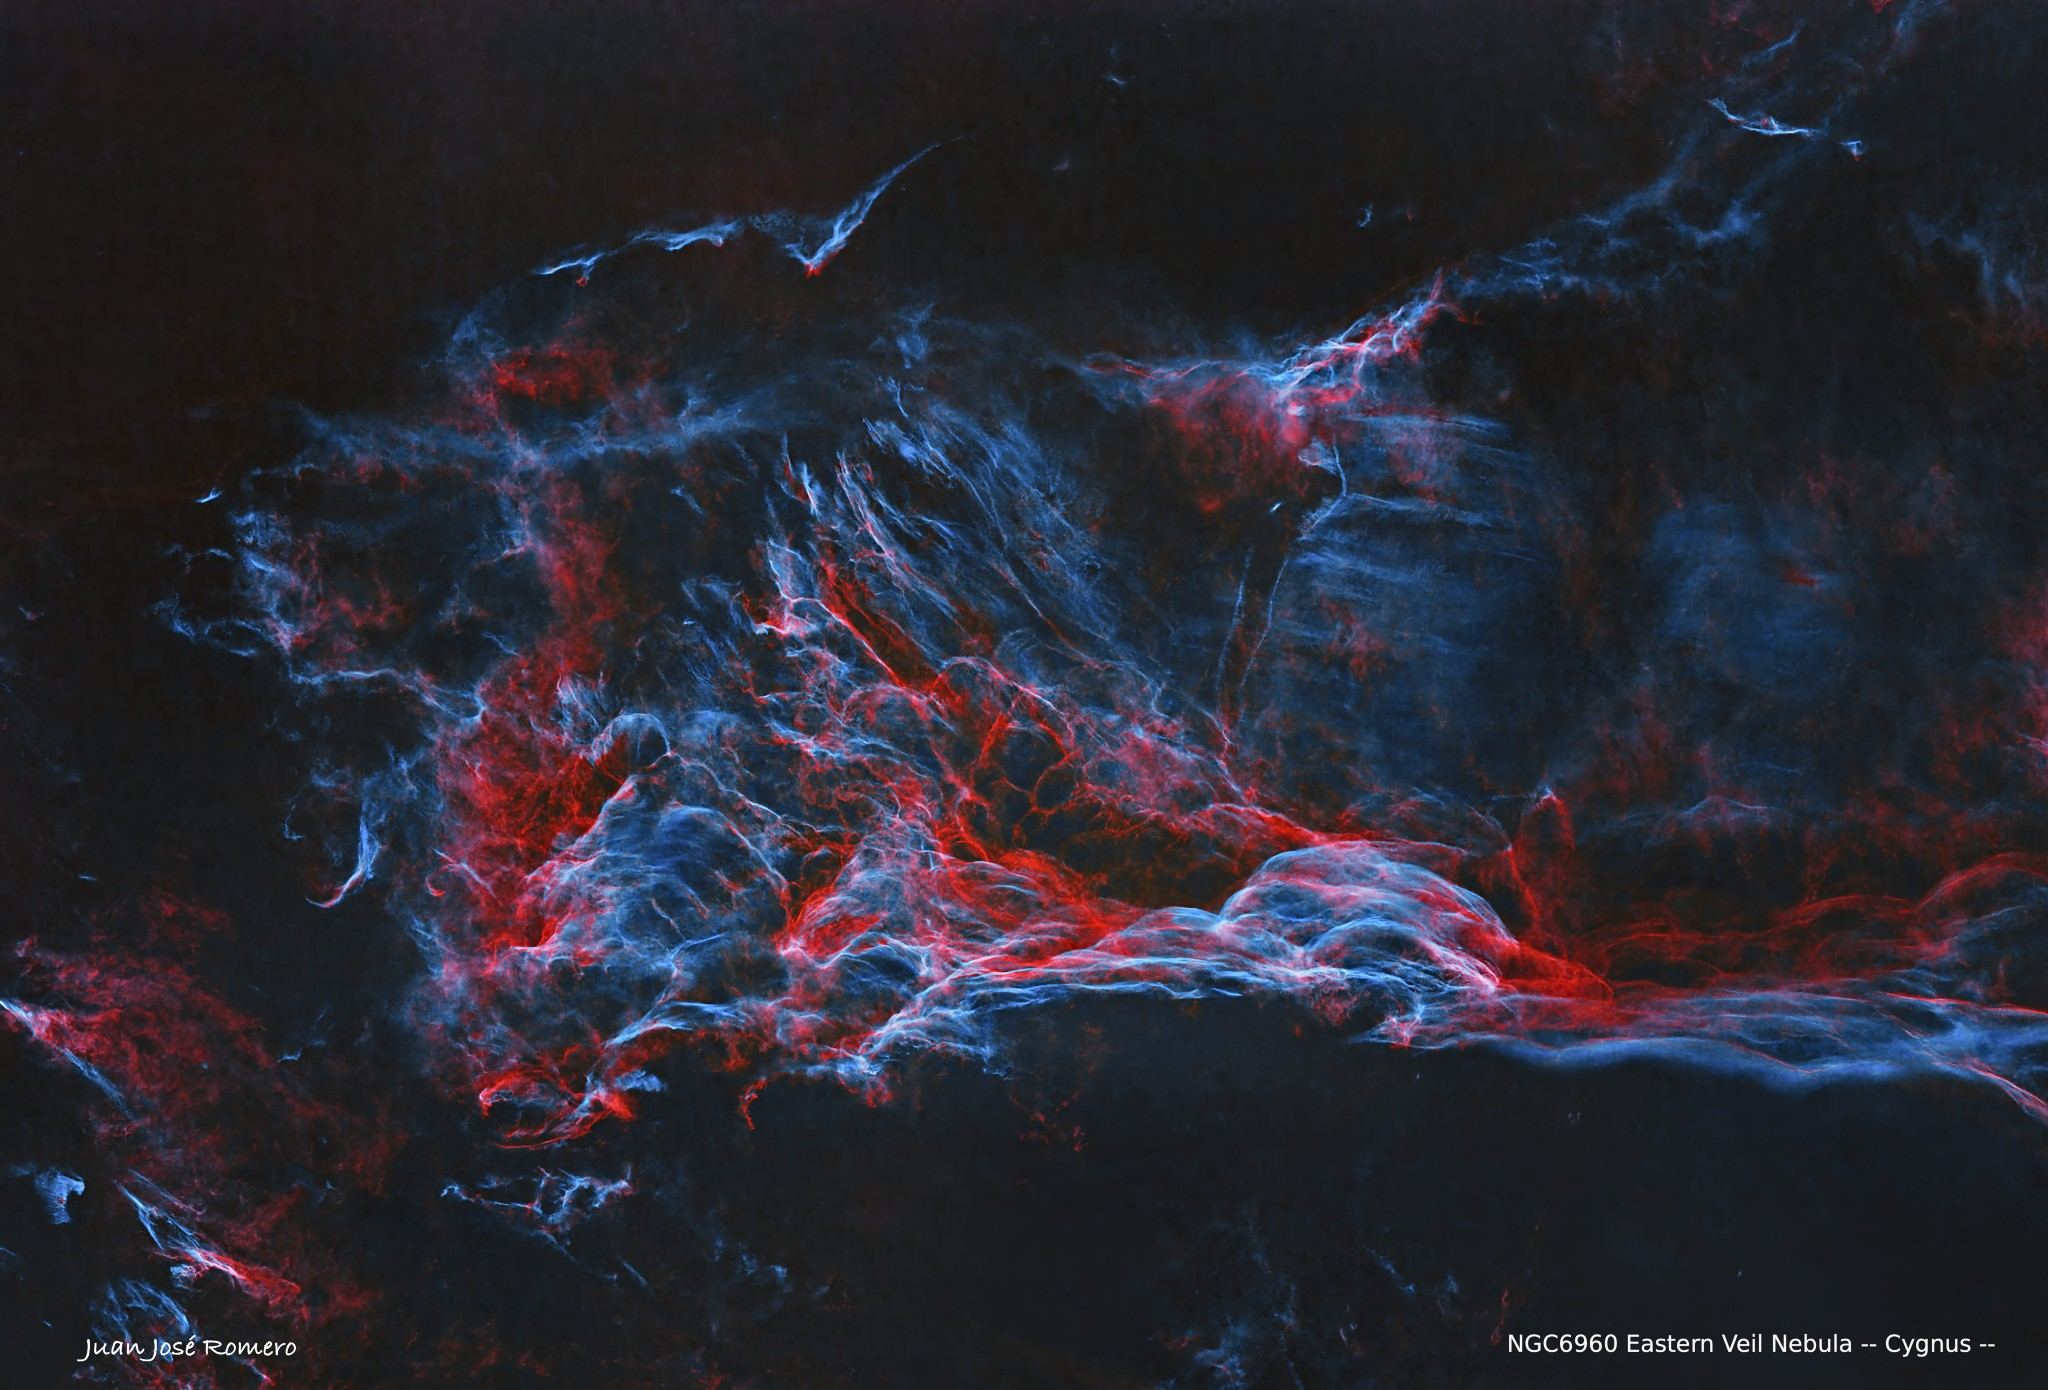
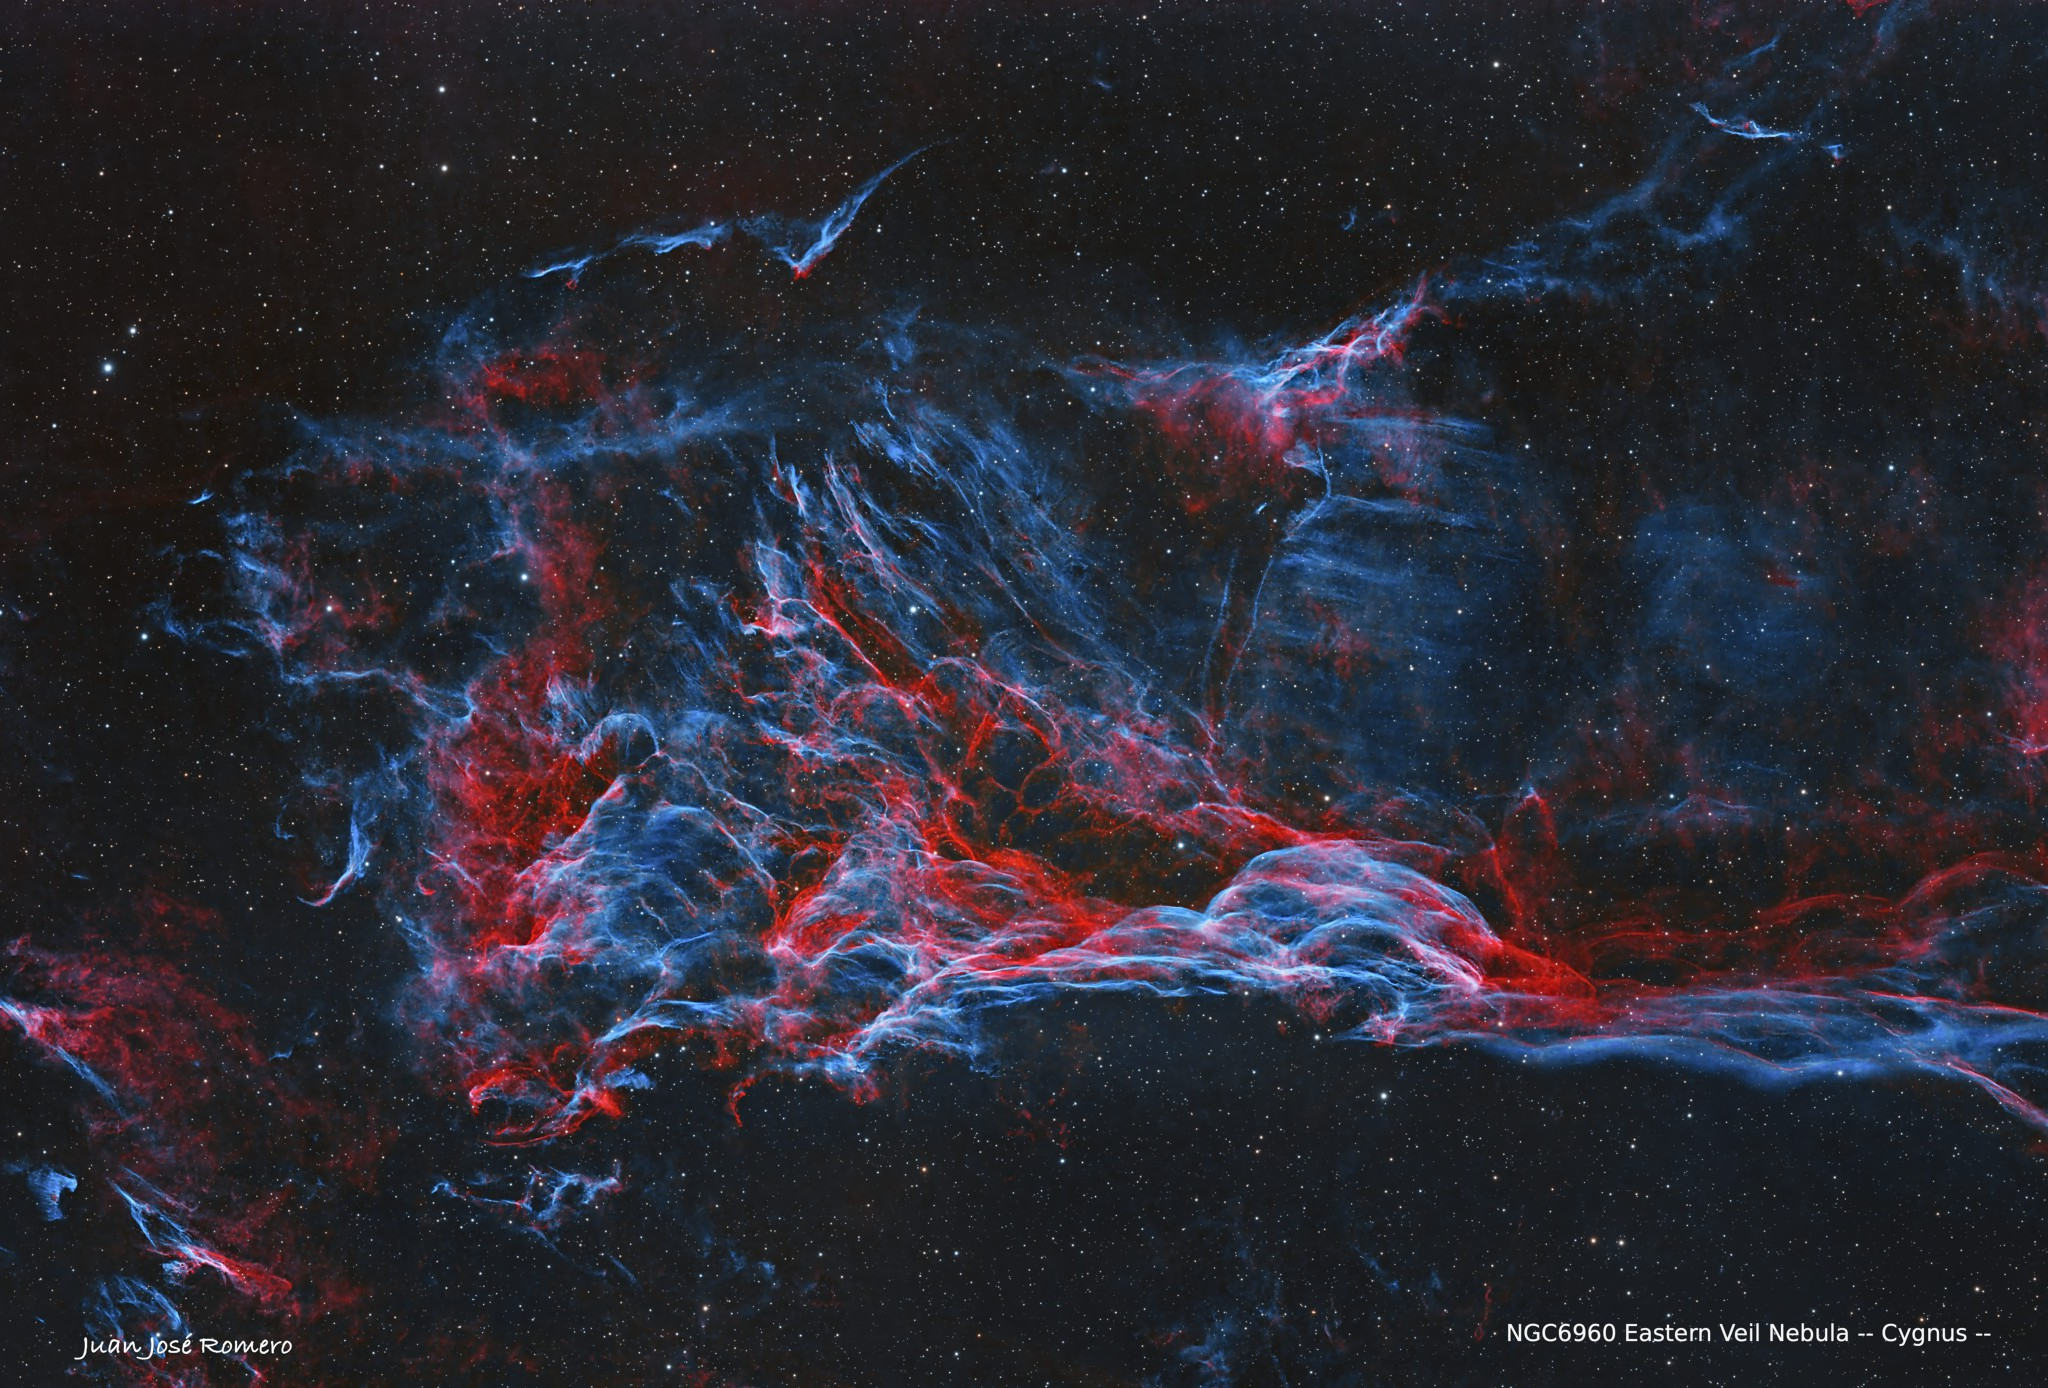
Amplía la galería con NGC6883, WR134 y NGC4565

diff --git a/src/content/fotos/NGC6883(SHO).md b/src/content/fotos/NGC6883(SHO).md
@@ -1,0 +1,44 @@
+---
+objecte: "NGC6883 – Cúmul obert (SHO)"
+constellacio: "Cygnus"
+caracteristiques: "Al centre de la imatge es troba NGC6883, un cúmul estel·lar obert jove situat a la constel·lació de Cygnus. Presenta una mida angular aparent d'uns 35 minuts d'arc, una magnitud visual de +8,0 i es troba a una distància aproximada de 4.500 anys llum. Conté prop d'un centenar d'estrelles, moltes de les quals són estrelles calentes de tipus espectral B. El camp fotografiat també mostra l'extensa nebulositat d'emissió de la regió i la característica bombolla associada a l'estrella Wolf-Rayet WR134, representades en una composició de banda estreta amb paleta SHO."
+categoria: "Cúmuls i Estrelles"
+imatge: "NGC6883_SHO.jpg"
+
+equip:
+  ota: "TS102 f/5.6"
+  roda_filtres: "ZWO EFW 7pos"
+  enfocador: "ZWO EAF"
+  guiat: "PHD2, tub 60mm/f4 + ASI220MM + PegasusAstro UCH + PPBMicro"
+  muntura: "Sky Watcher Wave 150i"
+
+camera:
+  principal: "ASI294MM a -10ºC"
+  filtres: "Ha, OIII i SII Astronomik de 6nm"
+
+exposicio:
+  temps_total: "8h 25min"
+  gain: "125"
+  offset: "30"
+  subframes: "360s (Ha: 10x, OIII: 5x, SII: 5x) bin1; 300s (Ha: 18x, OIII: 44x, SII: 15x) bin1"
+  calibratge: "30 flats, 30 darkflats i 40 darks (de biblioteca), sense bies"
+
+tractament:
+  adquisicio: "NINA"
+  processat: "Apilat i postprocessat amb PixInsight 1.9.3"
+
+entorn:
+  lloc: "l'Ampolla"
+  data: "2025-08-15"
+  bortle: "4"
+
+imatges_addicionals:
+  - tipus: "annotated"
+    fitxer: "NGC6883_SHO_annotated.jpg"
+    titol: "Objectes identificats"
+    descripcio: "Identificació de NGC6883, la nebulosa fosca B147 i LDN 853 dins del camp fotografiat en paleta SHO."
+  - tipus: "process"
+    fitxer: "NGC6883_SHO_process.jpg"
+    titol: "Flux de postprocessament"
+    descripcio: "Flux de treball del postprocessament de la composició SHO de NGC6883 i WR134 amb PixInsight."
+---

diff --git a/src/content/fotos/WR134(HOO).md b/src/content/fotos/WR134(HOO).md
@@ -1,0 +1,44 @@
+---
+objecte: "WR134 – Estrella Wolf-Rayet (HOO)"
+constellacio: "Cygnus"
+caracteristiques: "WR134 és una estrella Wolf-Rayet de tipus espectral WN6 situada a la constel·lació de Cygnus. És una estrella molt calenta, rica en nitrogen i heli i gairebé desproveïda d'hidrogen, que es troba en una etapa avançada de la seva evolució. Expulsa les capes externes mitjançant un vent estel·lar extremadament ràpid i dens, que modela una bombolla de gas ionitzat al seu voltant. La intensa radiació ultraviolada de l'estrella excita aquest gas, i l'emissió de l'oxigen doblement ionitzat de la bombolla es registra amb el filtre OIII. Previsiblement, WR134 acabarà la seva evolució amb una explosió de supernova."
+categoria: "Cúmuls i Estrelles"
+imatge: "WR134.jpg"
+
+equip:
+  ota: "TS102 f/5.6"
+  roda_filtres: "ZWO EFW 7pos"
+  enfocador: "ZWO EAF"
+  guiat: "PHD2, tub 60mm/f4 + ASI220MM + PegasusAstro UCH + PPBMicro"
+  muntura: "Sky Watcher Wave 150i"
+
+camera:
+  principal: "ASI294MM a -10ºC"
+  filtres: "Ha i OIII Astronomik de 6nm"
+
+exposicio:
+  temps_total: "6h 40min"
+  gain: "125"
+  offset: "30"
+  subframes: "360s (Ha: 10x, OIII: 5x) bin1; 300s (Ha: 18x, OIII: 44x) bin1"
+  calibratge: "30 flats, 30 darkflats i 40 darks (de biblioteca), sense bies"
+
+tractament:
+  adquisicio: "NINA"
+  processat: "Apilat i postprocessat amb PixInsight 1.9.3"
+
+entorn:
+  lloc: "l'Ampolla"
+  data: "2025-08-15"
+  bortle: "4"
+
+imatges_addicionals:
+  - tipus: "annotated"
+    fitxer: "WR134_annotated.jpg"
+    titol: "Objectes identificats"
+    descripcio: "Localització de WR134 dins de la seva bombolla de gas ionitzat i identificació del cúmul obert NGC6883 al camp fotografiat."
+  - tipus: "process"
+    fitxer: "WR134_process.jpg"
+    titol: "Flux de postprocessament"
+    descripcio: "Flux de treball del postprocessament de la composició HOO de WR134 amb PixInsight."
+---

diff --git a/src/content/fotos/ngc6883(HOO).md b/src/content/fotos/ngc6883(HOO).md
@@ -1,0 +1,44 @@
+---
+objecte: "NGC6883 – Cúmul obert"
+constellacio: "Cygnus"
+caracteristiques: "Al centre de la imatge es troba NGC6883, un cúmul estel·lar obert jove situat a la constel·lació de Cygnus. Presenta una mida angular aparent d'uns 35 minuts d'arc, una magnitud visual de +8,0 i es troba a una distància aproximada de 4.500 anys llum. Conté prop d'un centenar d'estrelles, moltes de les quals són estrelles calentes de tipus espectral B. El camp fotografiat també mostra l'extensa nebulositat d'emissió de la regió i la característica bombolla associada a l'estrella Wolf-Rayet WR134."
+categoria: "Cúmuls i Estrelles"
+imatge: "NGC6883.jpg"
+
+equip:
+  ota: "TS102 f/5.6"
+  roda_filtres: "ZWO EFW 7pos"
+  enfocador: "ZWO EAF"
+  guiat: "PHD2, tub 60mm/f4 + ASI220MM + PegasusAstro UCH + PPBMicro"
+  muntura: "Sky Watcher Wave 150i"
+
+camera:
+  principal: "ASI294MM a -10ºC"
+  filtres: "Ha i OIII Astronomik de 6nm"
+
+exposicio:
+  temps_total: "6h 40min"
+  gain: "125"
+  offset: "30"
+  subframes: "360s (Ha: 10x, OIII: 5x) bin1; 300s (Ha: 18x, OIII: 44x) bin1"
+  calibratge: "30 flats, 30 darkflats i 40 darks (de biblioteca), sense bies"
+
+tractament:
+  adquisicio: "NINA"
+  processat: "Apilat i postprocessat amb PixInsight 1.9.3"
+
+entorn:
+  lloc: "l'Ampolla"
+  data: "2025-08-15"
+  bortle: "4"
+
+imatges_addicionals:
+  - tipus: "annotated"
+    fitxer: "NGC6883_annotated.jpg"
+    titol: "Objectes identificats"
+    descripcio: "Identificació de NGC6883, l'estrella Wolf-Rayet WR134, la nebulosa fosca B147 i LDN 853 dins del camp fotografiat."
+  - tipus: "process"
+    fitxer: "NGC6883_HOO_process.jpg"
+    titol: "Flux de postprocessament"
+    descripcio: "Flux de treball del postprocessament de la composició HOO de NGC6883 i WR134 amb PixInsight."
+---

diff --git a/src/content/fotos/ngc4565.md b/src/content/fotos/ngc4565.md
@@ -1,0 +1,40 @@
+---
+objecte: "NGC4565 – Galàxia de l'Agulla"
+constellacio: "Coma Berenices"
+caracteristiques: "NGC4565, situada a la constel·lació de Coma Berenices, és una galàxia espiral vista gairebé de cantell, coneguda també com la Galàxia de l'Agulla per la seva forma allargada i prima. Amb una magnitud visual de +9,6 i una mida aparent de 15,8 × 1,9 minuts d'arc, es troba a una distància aproximada de 40 milions d'anys llum. La seva orientació permet observar amb claredat el bulb central i la banda de pols fosca que recorre el seu disc galàctic."
+categoria: "Galàxies"
+imatge: "NGC4565.jpg"
+
+equip:
+  ota: "TS102 f/5.6"
+  roda_filtres: "ZWO EFW 7pos"
+  enfocador: "ZWO EAF"
+  guiat: "PHD2, tub 60mm/f4 + ASI220MM + PegasusAstro UCH + PPBMicro"
+  muntura: "Sky Watcher Wave 150i"
+
+camera:
+  principal: "ASI294MM a -10ºC"
+  filtres: "CLS, R, G i B Astronomik"
+
+exposicio:
+  temps_total: "3h 39min"
+  gain: "125"
+  offset: "30"
+  subframes: "360s (R: 11x, G: 6x, B: 6x) bin1; 180s (CLS: 17x, G: 6x, B: 4x) bin1"
+  calibratge: "50 flats, 50 darkflats i 50 darks (de biblioteca), sense bies"
+
+tractament:
+  adquisicio: "NINA"
+  processat: "Apilat i postprocessat amb PixInsight 1.9.3"
+
+entorn:
+  lloc: "l'Ampolla"
+  data: "2025-04-30"
+  bortle: "4"
+
+imatges_addicionals:
+  - tipus: "annotated"
+    fitxer: "NGC4565_annotated.jpg"
+    titol: "Objectes identificats"
+    descripcio: "Identificació de NGC4565 i d'altres galàxies presents al camp fotografiat."
+---

diff --git a/src/content/fotos/ngc6960_ev.md b/src/content/fotos/ngc6960_ev.md
@@ -53,6 +53,17 @@ imatges_addicionals:
         titol: "Detalle del Velo oriental"
       en:
         titol: "Eastern Veil detail"
+  - tipus: "crop"
+    fitxer: "NGC6960_EV_crop_starless.jpg"
+    titol: "Detall del Vel Est sense estrelles"
+    descripcio: "Retall ampliat sense estrelles que destaca els filaments d'Hα i [O III] modelats per l'ona de xoc."
+    traduccions:
+      es:
+        titol: "Detalle del Velo oriental sin estrellas"
+        descripcio: "Recorte ampliado sin estrellas que destaca los filamentos de Hα y [O III] modelados por la onda de choque."
+      en:
+        titol: "Starless Eastern Veil detail"
+        descripcio: "Enlarged starless crop highlighting the Hα and [O III] filaments shaped by the shock wave."
   - tipus: "annotated"
     fitxer: "NGC6960_EV_annotated.jpg"
     titol: "Objectes identificats"